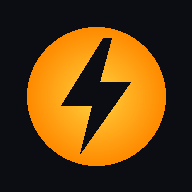
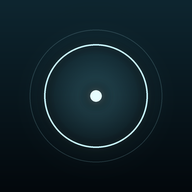
Souffle v12 — nouveau nom, nouvelle icône, teintes oxygène et respiration lente
Claude-Session: https://claude.ai/code/session_01YSBnHfGYDsMyAibsAaxkWD

diff --git a/index.html b/index.html
@@ -3,18 +3,19 @@
 <head>
 <meta charset="utf-8">
 <meta name="viewport" content="width=device-width, initial-scale=1, viewport-fit=cover, user-scalable=no">
-<meta name="theme-color" content="#0a0a0b" media="(prefers-color-scheme: dark)">
-<meta name="theme-color" content="#f6f5f2" media="(prefers-color-scheme: light)">
-<title>Zap</title>
+<meta name="theme-color" content="#050b0f" media="(prefers-color-scheme: dark)">
+<meta name="theme-color" content="#f2f8fa" media="(prefers-color-scheme: light)">
+<title>Souffle</title>
 <link rel="manifest" href="manifest.json">
 <link rel="icon" href="icon-192.png">
 <style>
 :root{
-  --bg:#0a0a0b;--fg:#f2f0ec;--mut:#6f6d69;--faint:#2a2a2c;--sheet:#141415;
-  --u3:#ff5a4e;--u2:#f2a93b;--u1:#5c5b58;--glow:255,196,92;--ok:#7fd8a6;
+  --bg:#050b0f;--fg:#eaf6f8;--mut:#6c818a;--faint:#18252c;--sheet:#0c161c;
+  --u3:#ff6b6b;--u2:#f3b562;--u1:#4f646d;--glow:150,226,240;--ok:#8fe6c6;
 }
 @media (prefers-color-scheme: light){
-  :root{--bg:#f6f5f2;--fg:#151515;--mut:#9a978f;--faint:#e4e1da;--sheet:#ffffff;--u1:#c3c0b8;--glow:240,160,40}
+  :root{--bg:#f2f8fa;--fg:#0e1c23;--mut:#86a0aa;--faint:#d9e6eb;--sheet:#ffffff;--u1:#b5c7ce;--glow:40,160,190;--ok:#2fae86}
+  body[data-space=perso]{--glow:80,130,225}
 }
 *{box-sizing:border-box;-webkit-tap-highlight-color:transparent;margin:0}
 html,body{background:var(--bg);color:var(--fg);font-family:"Inter",system-ui,-apple-system,"Segoe UI",Roboto,sans-serif;font-weight:300;overscroll-behavior:none;-webkit-font-smoothing:antialiased}
@@ -27,7 +28,9 @@ select{appearance:none}
 .top{display:flex;justify-content:space-between;align-items:center;padding:22px 26px 0;font-size:13px;letter-spacing:.4px;color:var(--mut)}
 .top button{font-size:20px;letter-spacing:2px;color:var(--mut);padding:4px 0 4px 12px}
 
-body[data-space=perso]{--glow:120,190,255}
+body[data-space=perso]{--glow:175,200,255}
+@media (prefers-color-scheme: light){body[data-space=perso]{--glow:80,130,225}}
+body{background-image:radial-gradient(900px 520px at 50% 22%,rgba(var(--glow),.075),transparent 65%);background-attachment:fixed;transition:background-color .6s}
 .spc{display:flex;gap:4px;margin-left:auto;margin-right:6px;border:1px solid var(--faint);border-radius:999px;padding:3px}
 .spc button{font-size:12px;letter-spacing:1px;padding:5px 12px;border-radius:999px;color:var(--mut)}
 .spc button.on{background:var(--fg);color:var(--bg)}
@@ -42,9 +45,13 @@ body[data-space=perso]{--glow:120,190,255}
 .stage{height:min(40vh,360px);display:flex;flex-direction:column;align-items:center;justify-content:center;position:relative}
 .ring{width:168px;height:168px;border-radius:50%;position:relative;display:grid;place-items:center;transition:transform .5s cubic-bezier(.2,.8,.2,1)}
 .ring::before{content:"";position:absolute;inset:0;border-radius:50%;border:1px solid rgba(var(--glow),.55);box-shadow:0 0 40px rgba(var(--glow),.12),inset 0 0 30px rgba(var(--glow),.06);transition:.5s}
-.ring::after{content:"";position:absolute;inset:-14px;border-radius:50%;border:1px solid rgba(var(--glow),.12);animation:breathe 5s ease-in-out infinite}
+.ring::after{content:"";position:absolute;inset:-14px;border-radius:50%;border:1px solid rgba(var(--glow),.12);animation:breathe 9s ease-in-out infinite}
 .core{width:10px;height:10px;border-radius:50%;background:rgb(var(--glow));box-shadow:0 0 18px rgba(var(--glow),.8);transition:.4s}
-@keyframes breathe{0%,100%{transform:scale(.97);opacity:.5}50%{transform:scale(1.04);opacity:1}}
+@keyframes breathe{0%,100%{transform:scale(.96);opacity:.35}45%{transform:scale(1.06);opacity:1}}
+.core{animation:corebreathe 9s ease-in-out infinite}
+@keyframes corebreathe{0%,100%{transform:scale(.85);opacity:.75}45%{transform:scale(1.15);opacity:1}}
+.ring::before{animation:ringbreathe 9s ease-in-out infinite}
+@keyframes ringbreathe{0%,100%{transform:scale(.985)}45%{transform:scale(1.015)}}
 .ring.on{transform:scale(1.08)}
 .ring.on::before{border-color:rgba(var(--glow),.95);box-shadow:0 0 70px rgba(var(--glow),.35),inset 0 0 50px rgba(var(--glow),.15)}
 .ring.on .core{width:22px;height:22px;animation:beat 1.1s ease-in-out infinite}
@@ -186,7 +193,7 @@ body[data-space=perso]{--glow:120,190,255}
 <div class="sheet" id="set">
   <div class="lab" style="margin-top:0">Claude</div>
   <input type="password" id="sKey" placeholder="clé API Anthropic (sk-ant-…)">
-  <p class="small">Sans clé, Zap trie seul avec ses règles. Avec, c'est Claude qui comprend, découpe et range — en s'appuyant sur la fiche ci-dessous et sur tes corrections.</p>
+  <p class="small">Sans clé, Souffle trie seul avec ses règles. Avec, c'est Claude qui comprend, découpe et range — en s'appuyant sur la fiche ci-dessous et sur tes corrections.</p>
   <div class="lab" id="lProf">Qui je suis (lu par Claude à chaque tri)</div>
   <textarea id="sProfile" rows="7"></textarea>
   <div class="lab" id="lChs">Mes chantiers — Nom : mots-clés</div>
@@ -214,7 +221,7 @@ body[data-space=perso]{--glow:120,190,255}
     <button class="ok" id="sSave">OK</button>
   </div>
   <input type="file" id="sFile" accept=".json" hidden>
-  <p class="small" style="margin-top:24px;text-align:center">Zap v11 · Rc4st</p>
+  <p class="small" style="margin-top:24px;text-align:center">Souffle v12 · Rc4st</p>
 </div>
 
 <div class="sheet" id="menu">
@@ -837,9 +844,9 @@ async function calSync(it){
     start = { dateTime: `${it.due}T${it.time}:00`, timeZone: "Europe/Paris" }; end = { dateTime: `${it.due}T${pad(e.getHours())}:${pad(e.getMinutes())}:00`, timeZone: "Europe/Paris" }; }
   const body = {
     subject: (it.done ? "✓ " : "") + (it.ch ? "[" + it.ch + "] " : "") + it.title,
-    body: { contentType: "text", content: (it.note ? it.note + "\n\n" : "") + (it.done ? "Fait le " + new Date(it.doneAt).toLocaleString("fr-FR") + "\n" : "") + "— Zap" },
+    body: { contentType: "text", content: (it.note ? it.note + "\n\n" : "") + (it.done ? "Fait le " + new Date(it.doneAt).toLocaleString("fr-FR") + "\n" : "") + "— Souffle" },
     start, end, isAllDay: allDay, showAs: "free",
-    isReminderOn: !it.done && !allDay, reminderMinutesBeforeStart: 10, categories: ["Zap"]
+    isReminderOn: !it.done && !allDay, reminderMinutesBeforeStart: 10, categories: ["Souffle"]
   };
   try {
     const url = "https://graph.microsoft.com/v1.0/me/events" + (it.evId ? "/" + it.evId : "");
@@ -918,7 +925,7 @@ function fromPicked(k, wanted){
   return upsertContact(name, (k.email || [])[0] || "", (k.tel || [])[0] || "");
 }
 async function pickOne(wanted){
-  try { const r = await navigator.contacts.select(["name", "email", "tel"], { multiple: false }); if (!r || !r.length) return null; const c = fromPicked(r[0], wanted); toast(`${c.name} ajouté à tes contacts Zap`); return c; }
+  try { const r = await navigator.contacts.select(["name", "email", "tel"], { multiple: false }); if (!r || !r.length) return null; const c = fromPicked(r[0], wanted); toast(`${c.name} ajouté à tes contacts`); return c; }
   catch (e) { return null; }
 }
 async function pickMany(){
@@ -1187,14 +1194,14 @@ $("mSet").onclick = () => { hide(); setTimeout(openSettings, 60); };
 const openSettings = () => {
   $("sKey").value = CFG.key || ""; $("sProfile").value = CFG.profile; $("sCh").value = CFG.ch; $("sTeam").value = CFG.team;
   $("sMsId").value = CFG.msId || ""; $("sCal").checked = CFG.calSync !== false;
-  $("sMsState").textContent = MS.rt || MS.at ? `connecté : ${MS.user || "Outlook"} — Zap relève tes mails à l'ouverture (toutes les 20 min max) et via « mails » sous le rond.` : "Zap lit tes mails (sans jamais en envoyer ni en supprimer) et en tire les actions à faire. Il faut Claude branché.";
+  $("sMsState").textContent = MS.rt || MS.at ? `connecté : ${MS.user || "Outlook"} — Souffle relève tes mails à l'ouverture (toutes les 20 min max) et via « mails » sous le rond.` : "Souffle lit tes mails (sans jamais en envoyer ni en supprimer) et en tire les actions à faire. Il faut Claude branché.";
   const P = SPACE === "perso";
   $("lProf").textContent = (P ? "Qui je suis — vie privée" : "Qui je suis — travail") + " (lu par Claude à chaque tri)";
   $("lChs").textContent = P ? "Mes thèmes — Nom : mots-clés" : "Mes chantiers — Nom : mots-clés";
   $("lTeam").textContent = P ? "Mes proches" : "Mon équipe";
   $("lStyle").textContent = P ? "Ma façon d'écrire mes textos et mails perso" : "Ma façon d'écrire mes mails";
   $("sContacts").value = CFG.contacts; $("sPick").style.display = PICK ? "" : "none"; $("sStyle").value = CFG.style; $("sSil").value = String(CFG.silence);
-  const n = (CFG.learn || []).length; $("sLearn").textContent = n ? `Zap a retenu ${n} correction${n > 1 ? "s" : ""} de ta part.` : "Quand tu corriges un classement, Zap le retient pour la suite.";
+  const n = (CFG.learn || []).length; $("sLearn").textContent = n ? `Souffle a retenu ${n} correction${n > 1 ? "s" : ""} de ta part.` : "Quand tu corriges un classement, Souffle le retient pour la suite.";
   show("set");
 };
 $("sSave").onclick = () => { CFG.key = $("sKey").value.trim(); CFG.profile = $("sProfile").value.trim() || DEFAULT_PROFILE; CFG.ch = $("sCh").value; CFG.team = $("sTeam").value; CFG.contacts = $("sContacts").value; CFG.style = $("sStyle").value.trim() || DEFAULT_STYLE; CFG.silence = +$("sSil").value; CFG.msId = $("sMsId").value.trim(); CFG.calSync = $("sCal").checked; saveCfg(); paintMailBtn(); hide(); render(); toast(CFG.key ? "Claude est branché" : "enregistré"); };
@@ -1206,7 +1213,7 @@ $("sNotif").onclick = async () => {
 };
 $("sExp").onclick = () => {
   const b = new Blob([JSON.stringify({ S, CFG: Object.assign({}, CFG, { key: "" }) }, null, 1)], { type: "application/json" });
-  const a = document.createElement("a"); a.href = URL.createObjectURL(b); a.download = "zap-" + today() + ".json"; a.click();
+  const a = document.createElement("a"); a.href = URL.createObjectURL(b); a.download = "souffle-" + today() + ".json"; a.click();
 };
 $("sImp").onclick = () => $("sFile").click();
 $("sFile").onchange = async e => {

diff --git a/sw.js b/sw.js
@@ -1,4 +1,4 @@
-const C = "zap-v11";
+const C = "souffle-v12";
 const FILES = ["./", "index.html", "manifest.json", "icon-192.png", "icon-512.png"];
 self.addEventListener("install", e => { e.waitUntil(caches.open(C).then(c => c.addAll(FILES))); self.skipWaiting(); });
 self.addEventListener("activate", e => {
